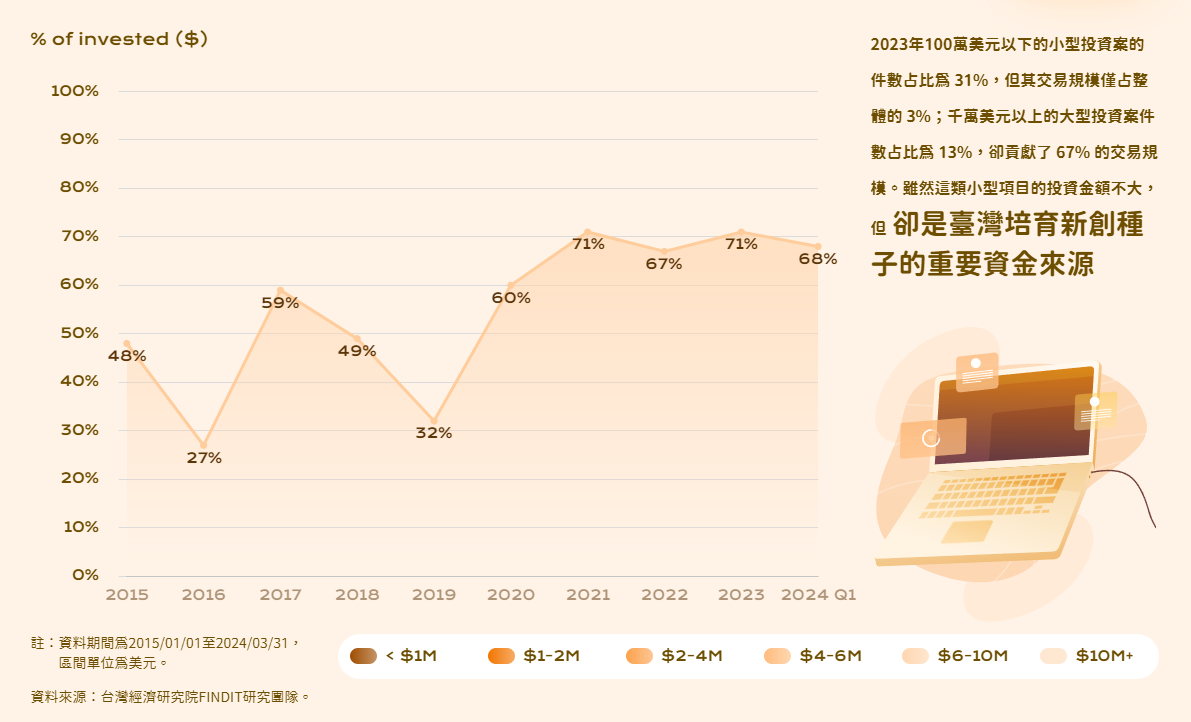
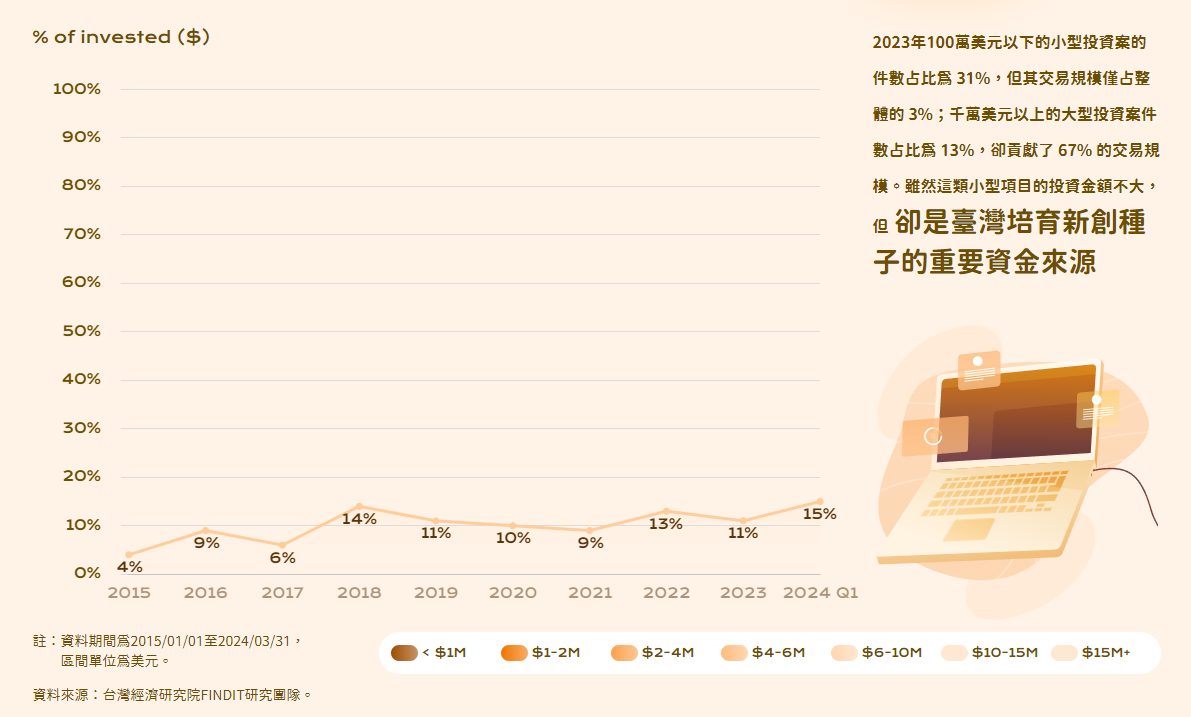
update | 20241023 change chart 04 & 03 data, update download image

diff --git a/index.html b/index.html
@@ -858,7 +858,8 @@
                       <button class="dropdown-item">$2-4M</button>
                       <button class="dropdown-item">$4-7M</button>
                       <button class="dropdown-item">$7-10M</button>
-                      <button class="dropdown-item">$10M+</button>
+                      <button class="dropdown-item">$10-15M</button>
+                      <button class="dropdown-item">$15M+</button>
                       <!-- test -->
                     </div>
                   </dropdown-menu>
@@ -873,7 +874,8 @@
                     <button>$2-4M</button>
                     <button>$4-7M</button>
                     <button>$7-10M</button>
-                    <button>$10M+</button>
+                    <button>$10-15M</button>
+                    <button>$15M+</button>
                   </div>
                 </div>
                 <div class="flex gap-3 mt-2.5 tablet:mt-5 desktop:mt-8">
@@ -912,60 +914,69 @@
                   </div>
 
                   <div
-                    class="absolute top-0 right-0 font-KronaOne grid grid-cols-3 gap-2.5 scale-50 origin-top-right tablet:scale-100 desktop:grid-cols-6 desktop:bg-white desktop:rounded-full desktop:p-3 desktop:gap-8"
+                    class="absolute top-0 right-0 font-KronaOne grid grid-cols-3 gap-2.5 scale-50 origin-top-right tablet:scale-100 desktop:grid-cols-7 desktop:bg-white desktop:rounded-full desktop:p-3 desktop:gap-3"
                   >
-                    <div class="flex items-center gap-2">
+                    <div class="flex items-center gap-1">
                       <div
                         class="w-5 h-3 rounded-[5px] tablet:h-3 tablet:w-5 tablet:rounded-[5px] desktop:w-[27px] desktop:h-4 desktop:rounded-lg bg-gradient-to-r from-[#216889] to-[#21688999]"
                       ></div>
                       <span
-                        class="w-max tablet:text-xs tablet:scale-100 desktop:text-sm"
+                        class="w-max tablet:text-xs tablet:scale-100 desktop:text-xs"
                         >&lt; $1M</span
                       >
                     </div>
-                    <div class="flex items-center gap-2">
+                    <div class="flex items-center gap-1">
                       <div
                         class="w-5 h-3 rounded-[5px] tablet:h-3 tablet:w-5 tablet:rounded-[5px] desktop:w-[27px] desktop:h-4 desktop:rounded-lg bg-gradient-to-r from-[#1F88B7] to-[#1F88B799]"
                       ></div>
                       <span
-                        class="w-max tablet:text-xs tablet:scale-100 desktop:text-sm"
+                        class="w-max tablet:text-xs tablet:scale-100 desktop:text-xs"
                         >$1-2M</span
                       >
                     </div>
-                    <div class="flex items-center gap-2">
+                    <div class="flex items-center gap-1">
                       <div
                         class="w-5 h-3 rounded-[5px] tablet:h-3 tablet:w-5 tablet:rounded-[5px] desktop:w-[27px] desktop:h-4 desktop:rounded-lg bg-gradient-to-r from-[#5AABD1] to-[#5AABD199]"
                       ></div>
                       <span
-                        class="w-max tablet:text-xs tablet:scale-100 desktop:text-sm"
+                        class="w-max tablet:text-xs tablet:scale-100 desktop:text-xs"
                         >$2-4M</span
                       >
                     </div>
-                    <div class="flex items-center gap-2">
+                    <div class="flex items-center gap-1">
                       <div
                         class="w-5 h-3 rounded-[5px] tablet:h-3 tablet:w-5 tablet:rounded-[5px] desktop:w-[27px] desktop:h-4 desktop:rounded-lg bg-gradient-to-r from-[#7AB6D2] to-[#7AB6D299]"
                       ></div>
                       <span
-                        class="w-max tablet:text-xs tablet:scale-100 desktop:text-sm"
+                        class="w-max tablet:text-xs tablet:scale-100 desktop:text-xs"
                         >$4-7M</span
                       >
                     </div>
-                    <div class="flex items-center gap-2">
+                    <div class="flex items-center gap-1">
                       <div
                         class="w-5 h-3 rounded-[5px] tablet:h-3 tablet:w-5 tablet:rounded-[5px] desktop:w-[27px] desktop:h-4 desktop:rounded-lg bg-gradient-to-r from-[#A0CFE4] to-[#A0CFE47D]"
                       ></div>
                       <span
-                        class="w-max tablet:text-xs tablet:scale-100 desktop:text-sm"
+                        class="w-max tablet:text-xs tablet:scale-100 desktop:text-xs"
                         >$7-10M</span
                       >
                     </div>
-                    <div class="flex items-center gap-2">
+                    <div class="flex items-center gap-1">
                       <div
                         class="w-5 h-3 rounded-[5px] tablet:h-3 tablet:w-5 tablet:rounded-[5px] desktop:w-[27px] desktop:h-4 desktop:rounded-lg bg-gradient-to-r from-[#D1E6F0] to-[#D1E6F099]"
                       ></div>
                       <span
-                        class="w-max tablet:text-xs tablet:scale-100 desktop:text-sm"
-                        >$10M+</span
+                        class="w-max tablet:text-xs tablet:scale-100 desktop:text-xs"
+                        >$10-15M</span
+                      >
+                    </div>
+                    <div class="flex items-center gap-1">
+                      <div
+                        class="w-5 h-3 rounded-[5px] tablet:h-3 tablet:w-5 tablet:rounded-[5px] desktop:w-[27px] desktop:h-4 desktop:rounded-lg bg-gradient-to-r from-[#D1E6F0] to-[#D1E6F099]"
+                      ></div>
+                      <span
+                        class="w-max tablet:text-xs tablet:scale-100 desktop:text-xs"
+                        >$15M+</span
                       >
                     </div>
                   </div>
@@ -1087,7 +1098,8 @@
                   <button class="dropdown-item">$2-4M</button>
                   <button class="dropdown-item">$4-6M</button>
                   <button class="dropdown-item">$6-10M</button>
-                  <button class="dropdown-item">$10M+</button>
+                  <button class="dropdown-item">$10-15M</button>
+                  <button class="dropdown-item">$15M+</button>
                 </div>
               </dropdown-menu>
 
@@ -1101,7 +1113,8 @@
                 <button>$2-4M</button>
                 <button>$4-6M</button>
                 <button>$6-10M</button>
-                <button>$10M+</button>
+                <button>$10-15M</button>
+                <button>$15M+</button>
               </div>
             </div>
             <div class="flex gap-3 mt-2.5 tablet:mt-5 desktop:mt-8">
@@ -1154,59 +1167,68 @@
               </div>
 
               <div
-                class="absolute top-0 right-0 font-KronaOne grid grid-cols-3 gap-2.5 scale-50 origin-top-right tablet:scale-100 desktop:grid-cols-6 desktop:bg-white desktop:rounded-full desktop:p-3 desktop:gap-8"
+                class="absolute top-0 right-0 font-KronaOne grid grid-cols-3 gap-2.5 scale-50 origin-top-right tablet:scale-100 desktop:grid-cols-7 desktop:bg-white desktop:rounded-full desktop:p-3 desktop:gap-3"
               >
-                <div class="flex items-center gap-2">
+                <div class="flex items-center gap-1">
                   <div
                     class="w-5 h-3 rounded-[5px] tablet:h-3 tablet:w-5 tablet:rounded-[5px] desktop:w-[27px] desktop:h-4 desktop:rounded-lg bg-gradient-to-r from-[#9F4D00] to-[#9F4D0099]"
                   ></div>
                   <span
-                    class="w-max tablet:text-xs tablet:scale-100 desktop:text-sm"
+                    class="w-max tablet:text-xs tablet:scale-100 desktop:text-xs"
                     >&lt; $1M</span>
                 </div>
-                <div class="flex items-center gap-2">
+                <div class="flex items-center gap-1">
                   <div
                     class="w-5 h-3 rounded-[5px] tablet:h-3 tablet:w-5 tablet:rounded-[5px] desktop:w-[27px] desktop:h-4 desktop:rounded-lg bg-gradient-to-r from-[#F27500] to-[#F2750099]"
                   ></div>
                   <span
-                    class="w-max tablet:text-xs tablet:scale-100 desktop:text-sm"
+                    class="w-max tablet:text-xs tablet:scale-100 desktop:text-xs"
                     >$1-2M</span
                   >
                 </div>
-                <div class="flex items-center gap-2">
+                <div class="flex items-center gap-1">
                   <div
                     class="w-5 h-3 rounded-[5px] tablet:h-3 tablet:w-5 tablet:rounded-[5px] desktop:w-[27px] desktop:h-4 desktop:rounded-lg bg-gradient-to-r from-[#FCA14C] to-[#FCA14C99]"
                   ></div>
                   <span
-                    class="w-max tablet:text-xs tablet:scale-100 desktop:text-sm"
+                    class="w-max tablet:text-xs tablet:scale-100 desktop:text-xs"
                     >$2-4M</span
                   >
                 </div>
-                <div class="flex items-center gap-2">
+                <div class="flex items-center gap-1">
                   <div
                     class="w-5 h-3 rounded-[5px] tablet:h-3 tablet:w-5 tablet:rounded-[5px] desktop:w-[27px] desktop:h-4 desktop:rounded-lg bg-gradient-to-r from-[#FFBC7D] to-[#FFBC7D99]"
                   ></div>
                   <span
-                    class="w-max tablet:text-xs tablet:scale-100 desktop:text-sm"
+                    class="w-max tablet:text-xs tablet:scale-100 desktop:text-xs"
                     >$4-6M</span
                   >
                 </div>
-                <div class="flex items-center gap-2">
+                <div class="flex items-center gap-1">
                   <div
                     class="w-5 h-3 rounded-[5px] tablet:h-3 tablet:w-5 tablet:rounded-[5px] desktop:w-[27px] desktop:h-4 desktop:rounded-lg bg-gradient-to-r from-[#FFD6AF] to-[#FFD6AF99]"
                   ></div>
                   <span
-                    class="w-max tablet:text-xs tablet:scale-100 desktop:text-sm"
+                    class="w-max tablet:text-xs tablet:scale-100 desktop:text-xs"
                     >$6-10M</span
                   >
                 </div>
-                <div class="flex items-center gap-2">
+                <div class="flex items-center gap-1">
                   <div
                     class="w-5 h-3 rounded-[5px] tablet:h-3 tablet:w-5 tablet:rounded-[5px] desktop:w-[27px] desktop:h-4 desktop:rounded-lg bg-gradient-to-r from-[#FFE8D1] to-[#FFE8D1]"
                   ></div>
                   <span
-                    class="w-max tablet:text-xs tablet:scale-100 desktop:text-sm"
-                    >$10M+</span
+                    class="w-max tablet:text-xs tablet:scale-100 desktop:text-xs"
+                    >$10-15M</span
+                  >
+                </div>
+                <div class="flex items-center gap-1">
+                  <div
+                    class="w-5 h-3 rounded-[5px] tablet:h-3 tablet:w-5 tablet:rounded-[5px] desktop:w-[27px] desktop:h-4 desktop:rounded-lg bg-gradient-to-r from-[#FFE8D1] to-[#FFE8D1]"
+                  ></div>
+                  <span
+                    class="w-max tablet:text-xs tablet:scale-100 desktop:text-xs"
+                    >$15M+</span
                   >
                 </div>
               </div>

diff --git a/src/js/chart/chart03.js b/src/js/chart/chart03.js
@@ -120,12 +120,13 @@ export default () => {
 };
 
 const data = [
-  [6, 11, 7, 6, 13, 6, 2, 3, 4, 3],
-  [9, 11, 8, 7, 12, 6, 4, 5, 6, 6],
-  [12, 16, 11, 14, 18, 10, 6, 8, 9, 9],
-  [7, 14, 7, 12, 13, 7, 5, 6, 5, 9],
-  [17, 21, 7, 12, 12, 10, 12, 12, 6, 5],
-  [48, 27, 59, 49, 32, 60, 71, 67, 71, 68],
+  [6,  10,  7,  6, 12,  6,  2,  2,  3,  3],
+  [9,  11,  8,  7, 12,  6,  4,  5,  6,  5],
+  [12, 15, 11, 14, 17, 11,  6,  8,  9,  9],
+  [14, 21, 10, 13, 15, 11,  9,  9,  9, 18],
+  [10, 12,  5, 11,  9,  6, 10,  9,  5, 13],
+  [ 4,  9,  6, 14, 11, 10,  9, 13, 11, 15],
+  [44, 20, 53, 34, 23, 51, 61, 54, 57, 37],
 ];
 
 const getSumData = ({ index }) => {
@@ -217,6 +218,20 @@ const dataTemplate = [
     borderColor: "#FCAA5B",
     pointBackgroundColor: "#FCAA5B",
     backgroundColor: gradient4(ctx),
+    fill: true,
+    datalabels: {
+      align: "bottom",
+      anchor: "end",
+      color: "#5B3408",
+      formatter: function (value) {
+        return value + "%"; // 顯示數據值
+      },
+    },
+  },
+  {
+    borderColor: "#FFCC9B",
+    pointBackgroundColor: "#FFCC9B",
+    backgroundColor: gradient5(ctx),
     fill: true,
     datalabels: {
       align: "bottom",

diff --git a/src/js/chart/chart04.js b/src/js/chart/chart04.js
@@ -128,9 +128,10 @@ const data = [
   [44, 49, 49, 41, 53, 44, 29, 31, 31, 27],
   [20, 16, 19, 15, 17, 15, 17, 17, 21, 17],
   [14, 12, 12, 15, 12, 12, 12, 14, 16, 16],
-  [8,   9,  6,  8,  7,  7, 10,  9,  9, 17],
+  [8,   9,  6,  8,  2,  7, 10,  9,  9, 17],
   [4,   3,  2,  4,  2,  2,  7,  5,  3,  8],
-  [4,   4,  5,  8,  9,  9, 14, 14, 13, 12],
+  [1,   2,  2,  4,  2,  3,  5,  5,  5,  7],
+  [3,   2,  3,  4,  1,  6,  9,  9,  8,  5],
 ];
 
 const textColor = "#39738E";
@@ -240,6 +241,20 @@ const dataTemplate = [
       align: "bottom",
       anchor: "end",
       color: "#39738E",
+      formatter: function (value) {
+        return value + "%"; // 顯示數據值
+      },
+    },
+  },
+  {
+    borderColor: "rgba(213, 231, 241, 0.6)",
+    pointBackgroundColor: "rgba(213, 231, 241, 0.6)",
+    backgroundColor: gradient11(ctx),
+    fill: true,
+    datalabels: {
+      align: "bottom",
+      anchor: "end",
+      color: textColor,
       formatter: function (value) {
         return value + "%"; // 顯示數據值
       },

diff --git a/src/js/popupover.js b/src/js/popupover.js
@@ -13,6 +13,7 @@ const downloadImageMap = {
     "chart_03_04": "chart_chart_03_04.png",
     "chart_03_05": "chart_chart_03_05.png",
     "chart_03_06": "chart_chart_03_06.png",
+    "chart_03_07": "chart_chart_03_07.png",
     "chart_04_sum": "chart_chart_04_sum.png",
     "chart_04_01": "chart_chart_04_01.png",
     "chart_04_02": "chart_chart_04_02.png",
@@ -20,6 +21,7 @@ const downloadImageMap = {
     "chart_04_04": "chart_chart_04_04.png",
     "chart_04_05": "chart_chart_04_05.png",
     "chart_04_06": "chart_chart_04_06.png",
+    "chart_04_07": "chart_chart_04_07.png",
     "chart_05": "chart_chart_05.png",
     "chart_06": "chart_chart_06.png",
     "chart_07_01": "chart_chart_07_01.png",

diff --git a/src/assets/styles/early-investment.scss b/src/assets/styles/early-investment.scss
@@ -224,7 +224,7 @@
   @apply hidden tablet:flex flex-wrap rounded-[36px] p-4 items-center justify-center w-[454px] desktop:w-full desktop:justify-between font-KronaOne;
 
   button {
-    @apply rounded-full px-8 py-[14px] desktop:text-xl;
+    @apply rounded-full px-5 py-[14px] desktop:text-xl;
 
     &.active_brown {
       @apply bg-white;
